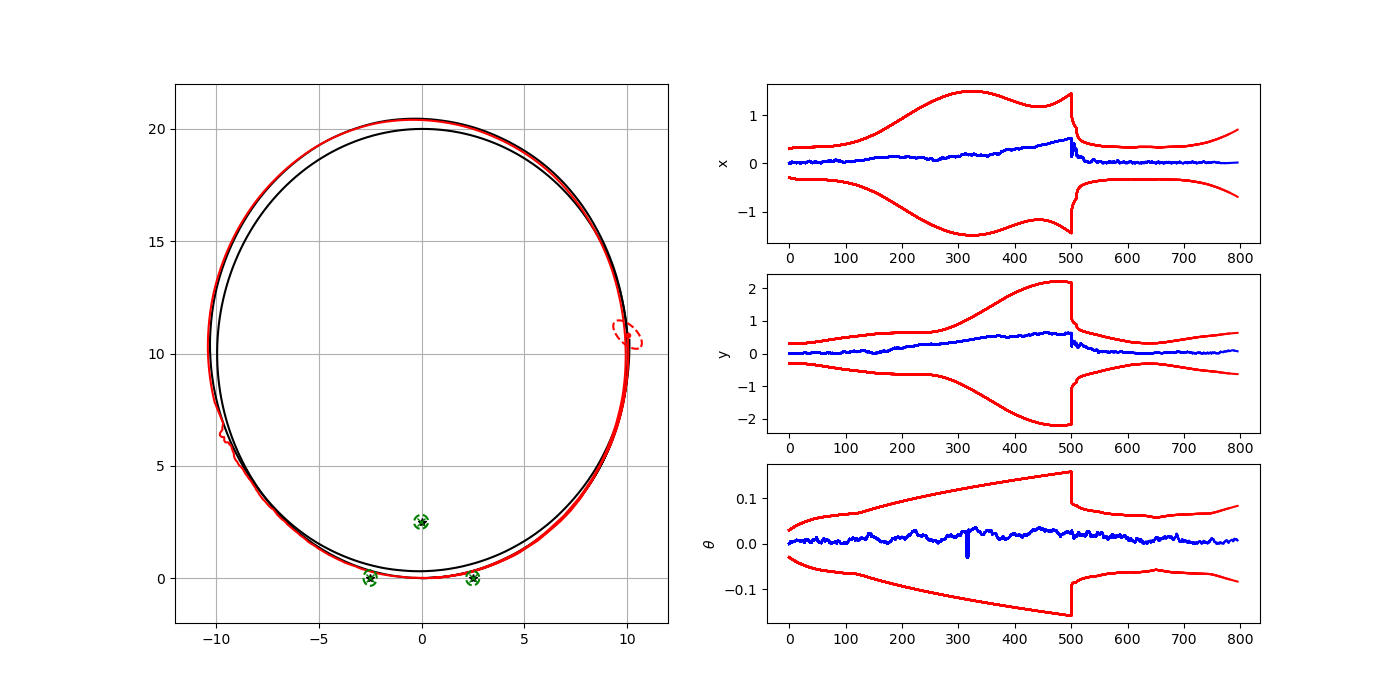
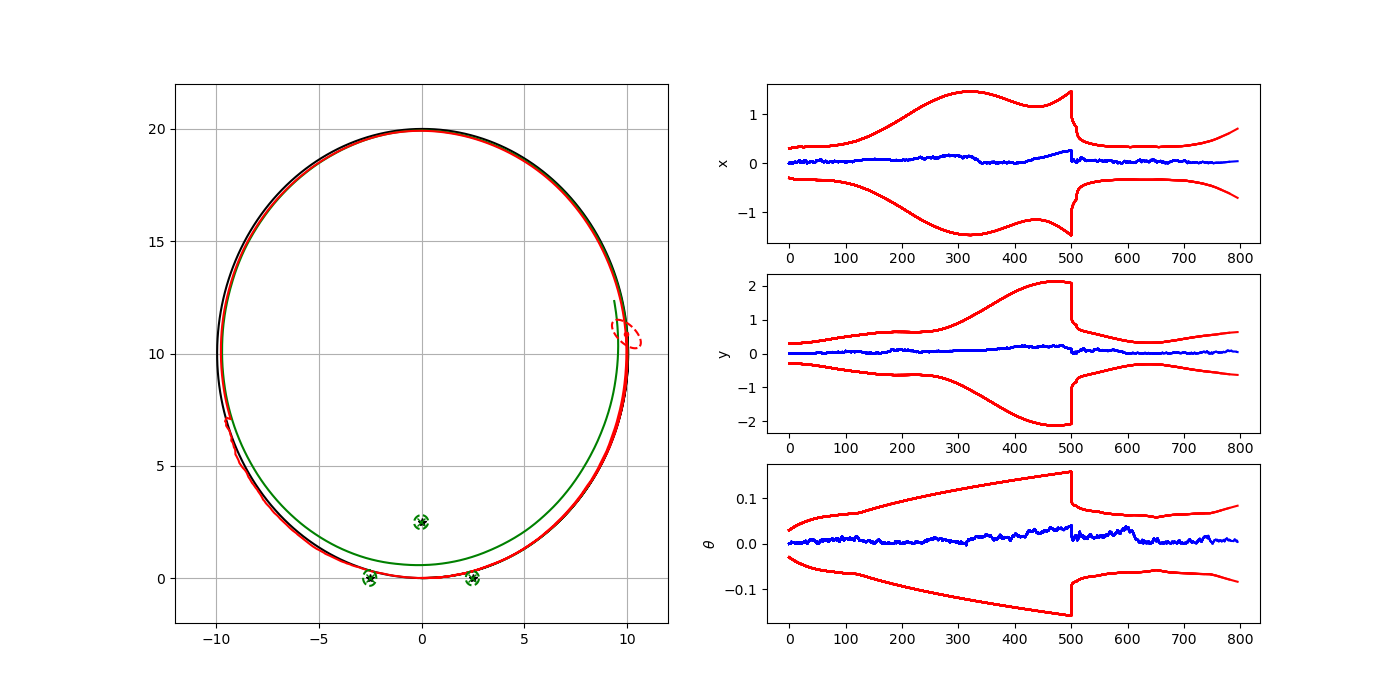
Images update

diff --git a/TP4/ekf_slam_complete.py b/TP4/ekf_slam_complete.py
@@ -359,10 +359,10 @@ def main():
     # Define landmark positions [x, y]
     
     # Default
-    # Landmarks = np.array([[0.0, 5.0],
-    #                       [11.0, 1.0],
-    #                       [3.0, 15.0],
-    #                       [-5.0, 20.0]])
+    Landmarks = np.array([[0.0, 5.0],
+                          [11.0, 1.0],
+                          [3.0, 15.0],
+                          [-5.0, 20.0]])
     
     # Dense map with many landmarks inside the robot perception radius
     # Landmarks = np.array([[0.0, 10.0],
@@ -386,9 +386,9 @@ def main():
     #                       [2.5, 7.5]])
     
     # Spare map with few landmarks
-    Landmarks = np.array([[-2.5, 0.0],
-                          [2.5, 0.0],
-                          [0.0, 2.5]])
+    # Landmarks = np.array([[-2.5, 0.0],
+    #                       [2.5, 0.0],
+    #                       [0.0, 2.5]])
     
 
     # Init state vector [x y yaw]' and covariance for Kalman
